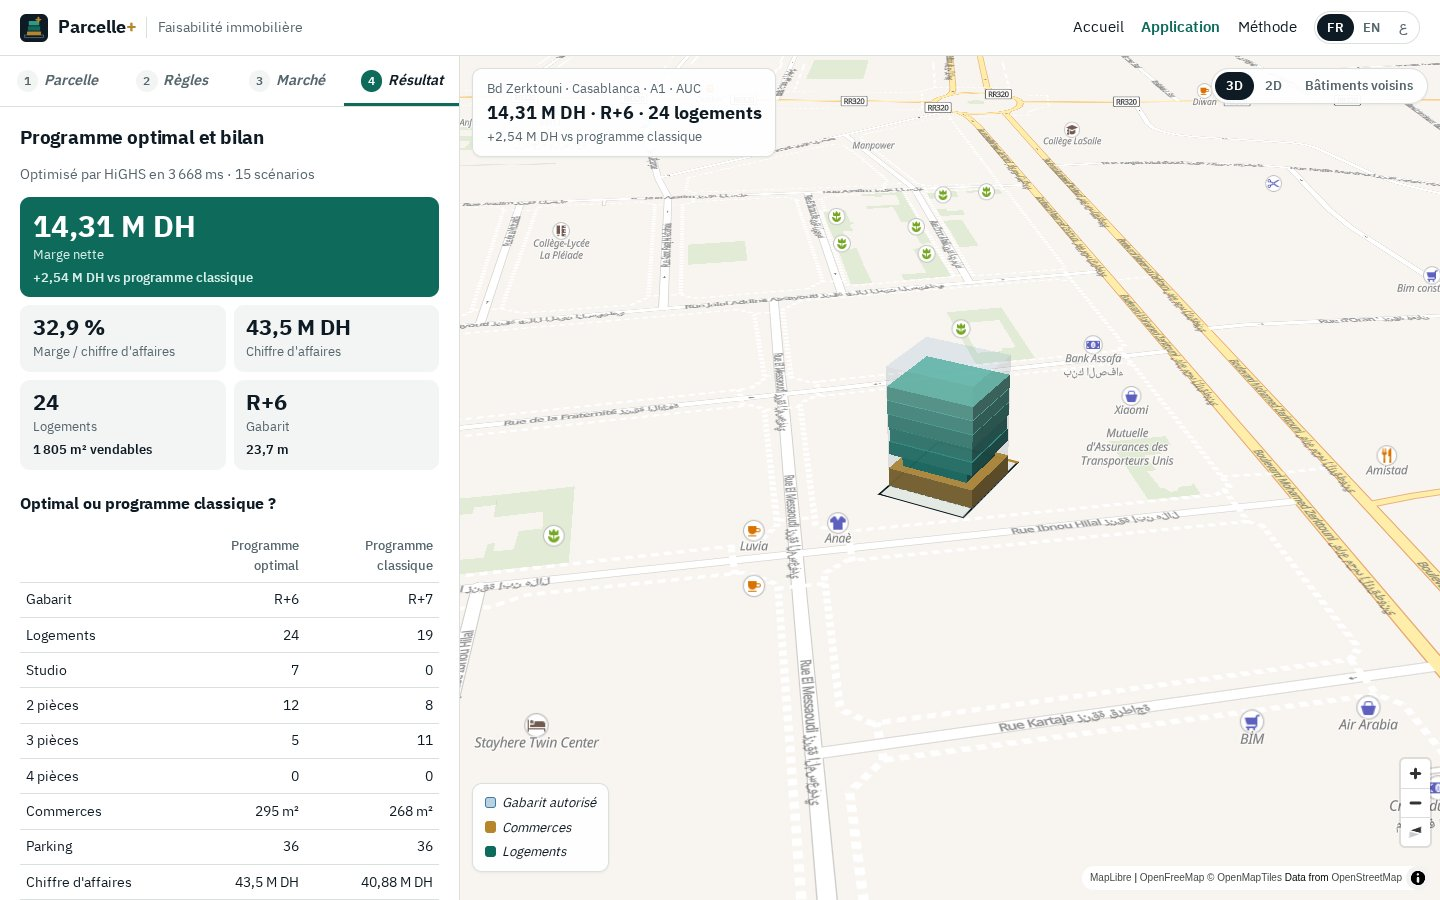
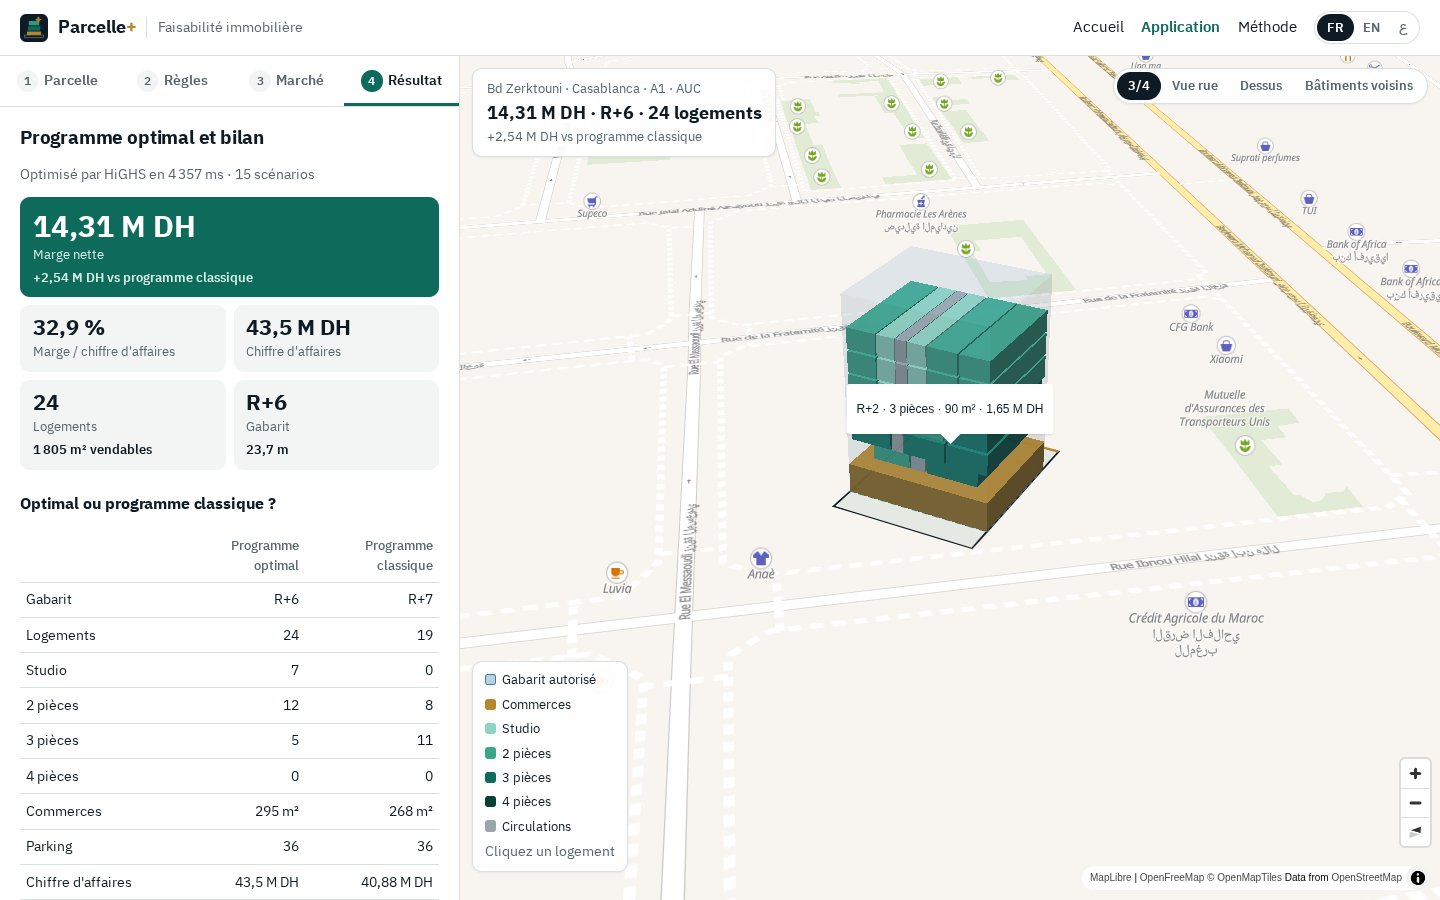
Parcelle+: floors split into apartments by type in 3D, click for details, street/top/3-4 camera presets

diff --git a/parcelle/assets/app.js b/parcelle/assets/app.js
@@ -1,5 +1,5 @@
 import { SAMPLES, ZONES, MARKETS, UNIT_TYPES, TECH } from "./data.js";
-import { projector, area, edges, facing, buildable, scaleTo, isConvex } from "./geo.js";
+import { projector, area, edges, facing, buildable, scaleTo, isConvex, splitStrips } from "./geo.js";
 import { study } from "./optimizer.js";
 import { LANGS, getLang, setLang, t, applyStatic } from "./i18n.js";
 
@@ -7,7 +7,7 @@ const $ = s => document.querySelector(s);
 let lang = getLang();
 const tr = (k, v) => t(lang, k, v);
 const EMPTY = { type: "FeatureCollection", features: [] };
-const COLORS = { shops: "#B7862B", envelope: "#3A7CA5", street: "#B7862B" };
+const COLORS = { shops: "#B7862B", envelope: "#3A7CA5", street: "#B7862B", core: "#9AA5AA", s: "#8FD3C1", t2: "#3AA58B", t3: "#0E6B5C", t4: "#083F37" };
 
 // ---------------------------------------------------------------- state
 
@@ -152,7 +152,7 @@ function renderFacts(g) {
 
 const map = new maplibregl.Map({
   container: "map", style: "https://tiles.openfreemap.org/styles/liberty",
-  center: [-7.63444, 33.58833], zoom: 18.2, pitch: 60, bearing: -28, maxPitch: 75,
+  center: [-7.63444, 33.58833], zoom: 18.9, pitch: 58, bearing: -28, maxPitch: 78,
   antialias: true, canvasContextAttributes: { preserveDrawingBuffer: true }, preserveDrawingBuffer: true,
 });
 map.addControl(new maplibregl.NavigationControl({ visualizePitch: true }), "bottom-right");
@@ -189,32 +189,57 @@ function drawGeometry(g) {
   src("p-envelope", b.length >= 3 ? { type: "FeatureCollection", features: [poly(b, { h: state.rules.hmax })] } : EMPTY);
 }
 
-function flatColor(k, n) {  // green, lighter as the floors rise
-  const a = [14, 107, 92], b = [102, 184, 164], f = n > 1 ? (k - 1) / (n - 1) : 0;
-  return `rgb(${a.map((v, i) => Math.round(v + (b[i] - v) * f)).join(",")})`;
+function unitPrice(k, u) {
+  const t = state.tech;
+  return u.area * u.price * (k === 0 ? 1 - t.rdcDiscount / 100 : 1 + t.premium / 100 * k);
 }
 
+// The optimal building, floor by floor, each floor split into its apartments (colored by type) around the stair core.
 function drawBuilding(g, best) {
   if (!mapReady) return;
   if (!best || g.bld.poly.length < 3) { src("p-building", EMPTY); return; }
-  const top = best.levels.length - 1;
+  const e = g.es[state.street], d = e ? e.dir : [1, 0], T = state.units, tech = state.tech;
+  const feats = [];
+  const add = (pts, props) => { if (pts.length >= 3) feats.push(poly(pts.map(g.pr.toLonLat), props)); };
   let base = 0;
-  const feats = best.levels.map(l => {
-    const plate = scaleTo(g.bld.poly, Math.min(l.gross, g.Bp)).map(g.pr.toLonLat);
-    const color = l.use === "shops" ? COLORS.shops : flatColor(Math.max(1, l.k), Math.max(1, top));
-    const f = poly(plate, { base, top: base + l.height - 0.2, color });
+  for (const l of best.levels) {
+    const plate = scaleTo(g.bld.poly, Math.min(l.gross, g.Bp));
+    const top = base + l.height - 0.3, lv = levelName(l.k);
+    if (l.use === "shops" || !l.counts.some(c => c)) {
+      add(plate, { base, top, color: COLORS.shops, info: `${lv} · ${tr("use.shops")} · ${num(l.net)} m² · ${money(l.net * state.market.commerce)}` });
+    } else {
+      const units = [];
+      l.counts.forEach((n, t) => { for (let i = 0; i < n; i++) units.push(t); });
+      units.sort((a, b) => T[b].area - T[a].area);  // largest flats at the ends, core in the middle
+      const left = [], right = [];
+      units.forEach((t, i) => (i % 2 ? right : left).push(t));
+      const seq = [...left, "core", ...right.reverse()];
+      const strips = splitStrips(plate, d, seq.map(x => (x === "core" ? tech.core : T[x].area / tech.eff)));
+      strips.forEach((sp, i) => {
+        if (sp.length < 3) return;
+        const x = seq[i], body = scaleTo(sp, Math.abs(area(sp)) * 0.9);  // small gap between flats
+        if (x === "core") add(body, { base, top, color: COLORS.core, info: `${lv} · ${tr("map.core")}` });
+        else add(body, { base, top, color: COLORS[T[x].id], info: `${lv} · ${tr("type." + T[x].id)} · ${num(T[x].area)} m² · ${money(unitPrice(l.k, T[x]))}` });
+      });
+    }
     base += l.height;
-    return f;
-  });
+  }
   src("p-building", { type: "FeatureCollection", features: feats });
 }
 
 function fit(g) {
   if (!mapReady) return;
   const c = g.pr.toLonLat([0, 0]);
-  map.easeTo({ center: c, zoom: 18.2, duration: 900 });
+  map.easeTo({ center: c, zoom: 18.9, duration: 900 });
 }
 
+function streetBearing() {  // look at the building from the street
+  if (!result || !result.g) return -28;
+  const e = result.g.es[state.street];
+  if (!e) return -28;
+  const n = [-e.dir[1], e.dir[0]];  // inward normal: from the street towards the parcel
+  return Math.atan2(n[0], n[1]) * 180 / Math.PI;
+}
 $(".view").addEventListener("click", e => {
   const b = e.target.closest("button"); if (!b) return;
   if (b.dataset.view === "nb") {
@@ -223,8 +248,10 @@ $(".view").addEventListener("click", e => {
     if (map.getLayer("building-3d")) map.setLayoutProperty("building-3d", "visibility", on ? "visible" : "none");
     return;
   }
-  document.querySelectorAll(".view button[data-view='3d'], .view button[data-view='2d']").forEach(x => x.setAttribute("aria-pressed", String(x === b)));
-  map.easeTo(b.dataset.view === "3d" ? { pitch: 60, bearing: -28 } : { pitch: 0, bearing: 0 });
+  document.querySelectorAll(".view button:not([data-view='nb'])").forEach(x => x.setAttribute("aria-pressed", String(x === b)));
+  const c = result && result.g ? result.g.pr.toLonLat([0, 0]) : map.getCenter();
+  const views = { "3d": { pitch: 58, bearing: -28, zoom: 18.9 }, street: { pitch: 76, bearing: streetBearing(), zoom: 19.3 }, "2d": { pitch: 0, bearing: 0, zoom: 19.2 } };
+  map.easeTo({ center: c, duration: 900, ...views[b.dataset.view] });
 });
 
 // drawing a parcel
@@ -254,7 +281,15 @@ function finishDraw() {
   state = { ...state, sample: null, name: tr("parcel.custom"), place: "", ring, street: es.reduce((a, e) => (e.len > es[a].len ? e.i : a), 0) };
   renderSamples(); map.easeTo({ pitch: 60, bearing: -28 }); schedule();
 }
-map.on("click", e => { if (drawing) { drawing.push([e.lngLat.lng, e.lngLat.lat]); updateDraw(); } });
+map.on("click", e => {
+  if (drawing) { drawing.push([e.lngLat.lng, e.lngLat.lat]); updateDraw(); return; }
+  const f = map.getLayer("p-building") && map.queryRenderedFeatures(e.point, { layers: ["p-building"] })[0];
+  if (f) new maplibregl.Popup({ closeButton: false, offset: 8 }).setLngLat(e.lngLat).setText(f.properties.info).addTo(map);
+});
+map.on("mousemove", e => {
+  if (drawing || !map.getLayer("p-building")) return;
+  map.getCanvas().style.cursor = map.queryRenderedFeatures(e.point, { layers: ["p-building"] }).length ? "pointer" : "";
+});
 map.on("dblclick", e => { if (drawing) { e.preventDefault(); finishDraw(); } });
 $("#draw").addEventListener("click", startDraw);
 $("#finish").addEventListener("click", finishDraw);

diff --git a/parcelle/assets/i18n.js b/parcelle/assets/i18n.js
@@ -48,7 +48,7 @@ export const T = {
     "bilan.fees": "Honoraires, taxes et frais", "bilan.marketing": "Commercialisation", "bilan.total": "Total", "bilan.margin": "Marge nette",
     "bilan.marginRev": "Marge / CA", "bilan.marginCost": "Marge / coût",
     "actions.print": "Imprimer la note (PDF)", "actions.csv": "Exporter en CSV", "actions.share": "Copier le lien", "actions.copied": "Lien copié",
-    "map.envelope": "Gabarit autorisé", "map.building": "Programme optimal", "map.shops": "Commerces", "map.flats": "Logements", "map.3d": "3D", "map.2d": "2D", "map.neighbors": "Bâtiments voisins",
+    "map.envelope": "Gabarit autorisé", "map.building": "Programme optimal", "map.shops": "Commerces", "map.flats": "Logements", "map.3d": "3/4", "map.2d": "Dessus", "map.neighbors": "Bâtiments voisins", "map.street": "Vue rue", "map.core": "Circulations (escalier, ascenseur)", "map.coreShort": "Circulations", "map.click": "Cliquez un logement",
     "report.title": "Note de faisabilité", "report.parcel": "Parcelle", "report.zone": "Zone", "report.disclaimer": "Étude indicative de faisabilité, établie à partir de règles et de prix saisis par l'utilisateur. Elle ne remplace ni la note de renseignement de l'Agence Urbaine ni une étude de marché.",
     "unit.mdh": "M DH", "unit.kdh": "k DH", "unit.dh": "DH",
     "footer.disclaimer": "Outil d'aide à la décision. Les règles d'urbanisme doivent être confirmées par l'Agence Urbaine compétente.",
@@ -111,7 +111,7 @@ export const T = {
     "bilan.fees": "Fees, taxes and financing", "bilan.marketing": "Sales and marketing", "bilan.total": "Total", "bilan.margin": "Net margin",
     "bilan.marginRev": "Margin / revenue", "bilan.marginCost": "Margin / cost",
     "actions.print": "Print the note (PDF)", "actions.csv": "Export CSV", "actions.share": "Copy link", "actions.copied": "Link copied",
-    "map.envelope": "Allowed envelope", "map.building": "Optimal program", "map.shops": "Shops", "map.flats": "Flats", "map.3d": "3D", "map.2d": "2D", "map.neighbors": "Neighbors",
+    "map.envelope": "Allowed envelope", "map.building": "Optimal program", "map.shops": "Shops", "map.flats": "Flats", "map.3d": "3/4", "map.2d": "Top", "map.neighbors": "Neighbors", "map.street": "Street view", "map.core": "Core (stairs, lift)", "map.coreShort": "Core", "map.click": "Click a flat",
     "report.title": "Feasibility note", "report.parcel": "Parcel", "report.zone": "Zone", "report.disclaimer": "Indicative feasibility study based on rules and prices entered by the user. It replaces neither the urban agency's official note nor a market study.",
     "unit.mdh": "M MAD", "unit.kdh": "k MAD", "unit.dh": "MAD",
     "footer.disclaimer": "Decision-support tool. Zoning rules must be confirmed by the relevant urban agency.",
@@ -174,7 +174,7 @@ export const T = {
     "bilan.fees": "الأتعاب والضرائب والمصاريف", "bilan.marketing": "التسويق", "bilan.total": "المجموع", "bilan.margin": "الهامش الصافي",
     "bilan.marginRev": "الهامش / رقم المعاملات", "bilan.marginCost": "الهامش / التكلفة",
     "actions.print": "طباعة المذكرة (PDF)", "actions.csv": "تصدير CSV", "actions.share": "نسخ الرابط", "actions.copied": "تم نسخ الرابط",
-    "map.envelope": "الحجم المسموح", "map.building": "البرنامج الأمثل", "map.shops": "محلات", "map.flats": "شقق", "map.3d": "3D", "map.2d": "2D", "map.neighbors": "المباني المجاورة",
+    "map.envelope": "الحجم المسموح", "map.building": "البرنامج الأمثل", "map.shops": "محلات", "map.flats": "شقق", "map.3d": "3/4", "map.2d": "من الأعلى", "map.neighbors": "المباني المجاورة", "map.street": "من الشارع", "map.core": "الممرات (الدرج، المصعد)", "map.coreShort": "الممرات", "map.click": "انقر على شقة",
     "report.title": "مذكرة الجدوى", "report.parcel": "القطعة", "report.zone": "المنطقة", "report.disclaimer": "دراسة جدوى تقريبية مبنية على قواعد وأسعار أدخلها المستعمل. لا تعوض مذكرة المعلومات الصادرة عن الوكالة الحضرية ولا دراسة السوق.",
     "unit.mdh": "مليون درهم", "unit.kdh": "ألف درهم", "unit.dh": "درهم",
     "footer.disclaimer": "أداة للمساعدة على القرار. يجب تأكيد قواعد التعمير لدى الوكالة الحضرية المختصة.",

diff --git a/parcelle/app.html b/parcelle/app.html
@@ -76,7 +76,7 @@
   <div class="mapwrap">
     <div id="map" role="region" aria-label="Carte 3D de la parcelle"></div>
     <div class="overlay summary" id="summary" hidden></div>
-    <div class="overlay view" role="group"><button data-view="3d" aria-pressed="true" data-i18n="map.3d"></button><button data-view="2d" aria-pressed="false" data-i18n="map.2d"></button><button data-view="nb" aria-pressed="false" data-i18n="map.neighbors"></button></div>
+    <div class="overlay view" role="group"><button data-view="3d" aria-pressed="true" data-i18n="map.3d"></button><button data-view="street" aria-pressed="false" data-i18n="map.street"></button><button data-view="2d" aria-pressed="false" data-i18n="map.2d"></button><button data-view="nb" aria-pressed="false" data-i18n="map.neighbors"></button></div>
     <div class="overlay drawbar" id="drawbar">
       <span data-i18n="parcel.drawHelp"></span>
       <button class="btn green" id="finish" type="button" data-i18n="parcel.finish"></button>
@@ -85,7 +85,12 @@
     <div class="overlay legend">
       <div><span class="swatch" style="background:rgba(58,124,165,.35);border:1px solid #3A7CA5"></span><i data-i18n="map.envelope"></i></div>
       <div><span class="swatch" style="background:#B7862B"></span><i data-i18n="map.shops"></i></div>
-      <div><span class="swatch" style="background:#0E6B5C"></span><i data-i18n="map.flats"></i></div>
+      <div><span class="swatch" style="background:#8FD3C1"></span><i data-i18n="type.s"></i></div>
+      <div><span class="swatch" style="background:#3AA58B"></span><i data-i18n="type.t2"></i></div>
+      <div><span class="swatch" style="background:#0E6B5C"></span><i data-i18n="type.t3"></i></div>
+      <div><span class="swatch" style="background:#083F37"></span><i data-i18n="type.t4"></i></div>
+      <div><span class="swatch" style="background:#9AA5AA"></span><i data-i18n="map.coreShort"></i></div>
+      <div class="hint" style="margin:0" data-i18n="map.click"></div>
     </div>
     <div class="busy" id="busy"><span data-i18n="result.computing"></span></div>
   </div>

diff --git a/parcelle/assets/geo.js b/parcelle/assets/geo.js
@@ -110,3 +110,37 @@ export function isConvex(pts) {
   }
   return true;
 }
+
+// Keep the part of a polygon whose projection on unit vector d lies between t0 and t1.
+export function band(pts, d, t0, t1) {
+  const keep = (poly, sign, t) => {  // keep points with sign * (p·d - t) >= 0
+    const out = [];
+    const f = q => sign * (q[0] * d[0] + q[1] * d[1] - t);
+    for (let i = 0; i < poly.length; i++) {
+      const a = poly[i], b = poly[(i + 1) % poly.length], fa = f(a), fb = f(b);
+      if (fa >= 0) out.push(a);
+      if ((fa >= 0) !== (fb >= 0)) { const k = fa / (fa - fb); out.push([a[0] + k * (b[0] - a[0]), a[1] + k * (b[1] - a[1])]); }
+    }
+    return out;
+  };
+  const one = keep(pts, 1, t0);
+  return one.length >= 3 ? keep(one, -1, t1) : [];
+}
+
+// Split a convex polygon into consecutive strips along d whose areas follow `targets` (same total as the polygon).
+export function splitStrips(pts, d, targets) {
+  const proj = pts.map(p => p[0] * d[0] + p[1] * d[1]);
+  const tmin = Math.min(...proj), tmax = Math.max(...proj);
+  const total = Math.abs(area(pts)), sum = targets.reduce((s, v) => s + v, 0) || 1;
+  const areaUpTo = t => { const b = band(pts, d, tmin - 1, t); return b.length >= 3 ? Math.abs(area(b)) : 0; };
+  const cuts = [tmin];
+  let acc = 0;
+  for (let i = 0; i < targets.length - 1; i++) {
+    acc += targets[i] / sum * total;
+    let lo = cuts[cuts.length - 1], hi = tmax;
+    for (let k = 0; k < 40; k++) { const mid = (lo + hi) / 2; if (areaUpTo(mid) < acc) lo = mid; else hi = mid; }
+    cuts.push((lo + hi) / 2);
+  }
+  cuts.push(tmax);
+  return targets.map((_, i) => band(pts, d, cuts[i], cuts[i + 1]));
+}
